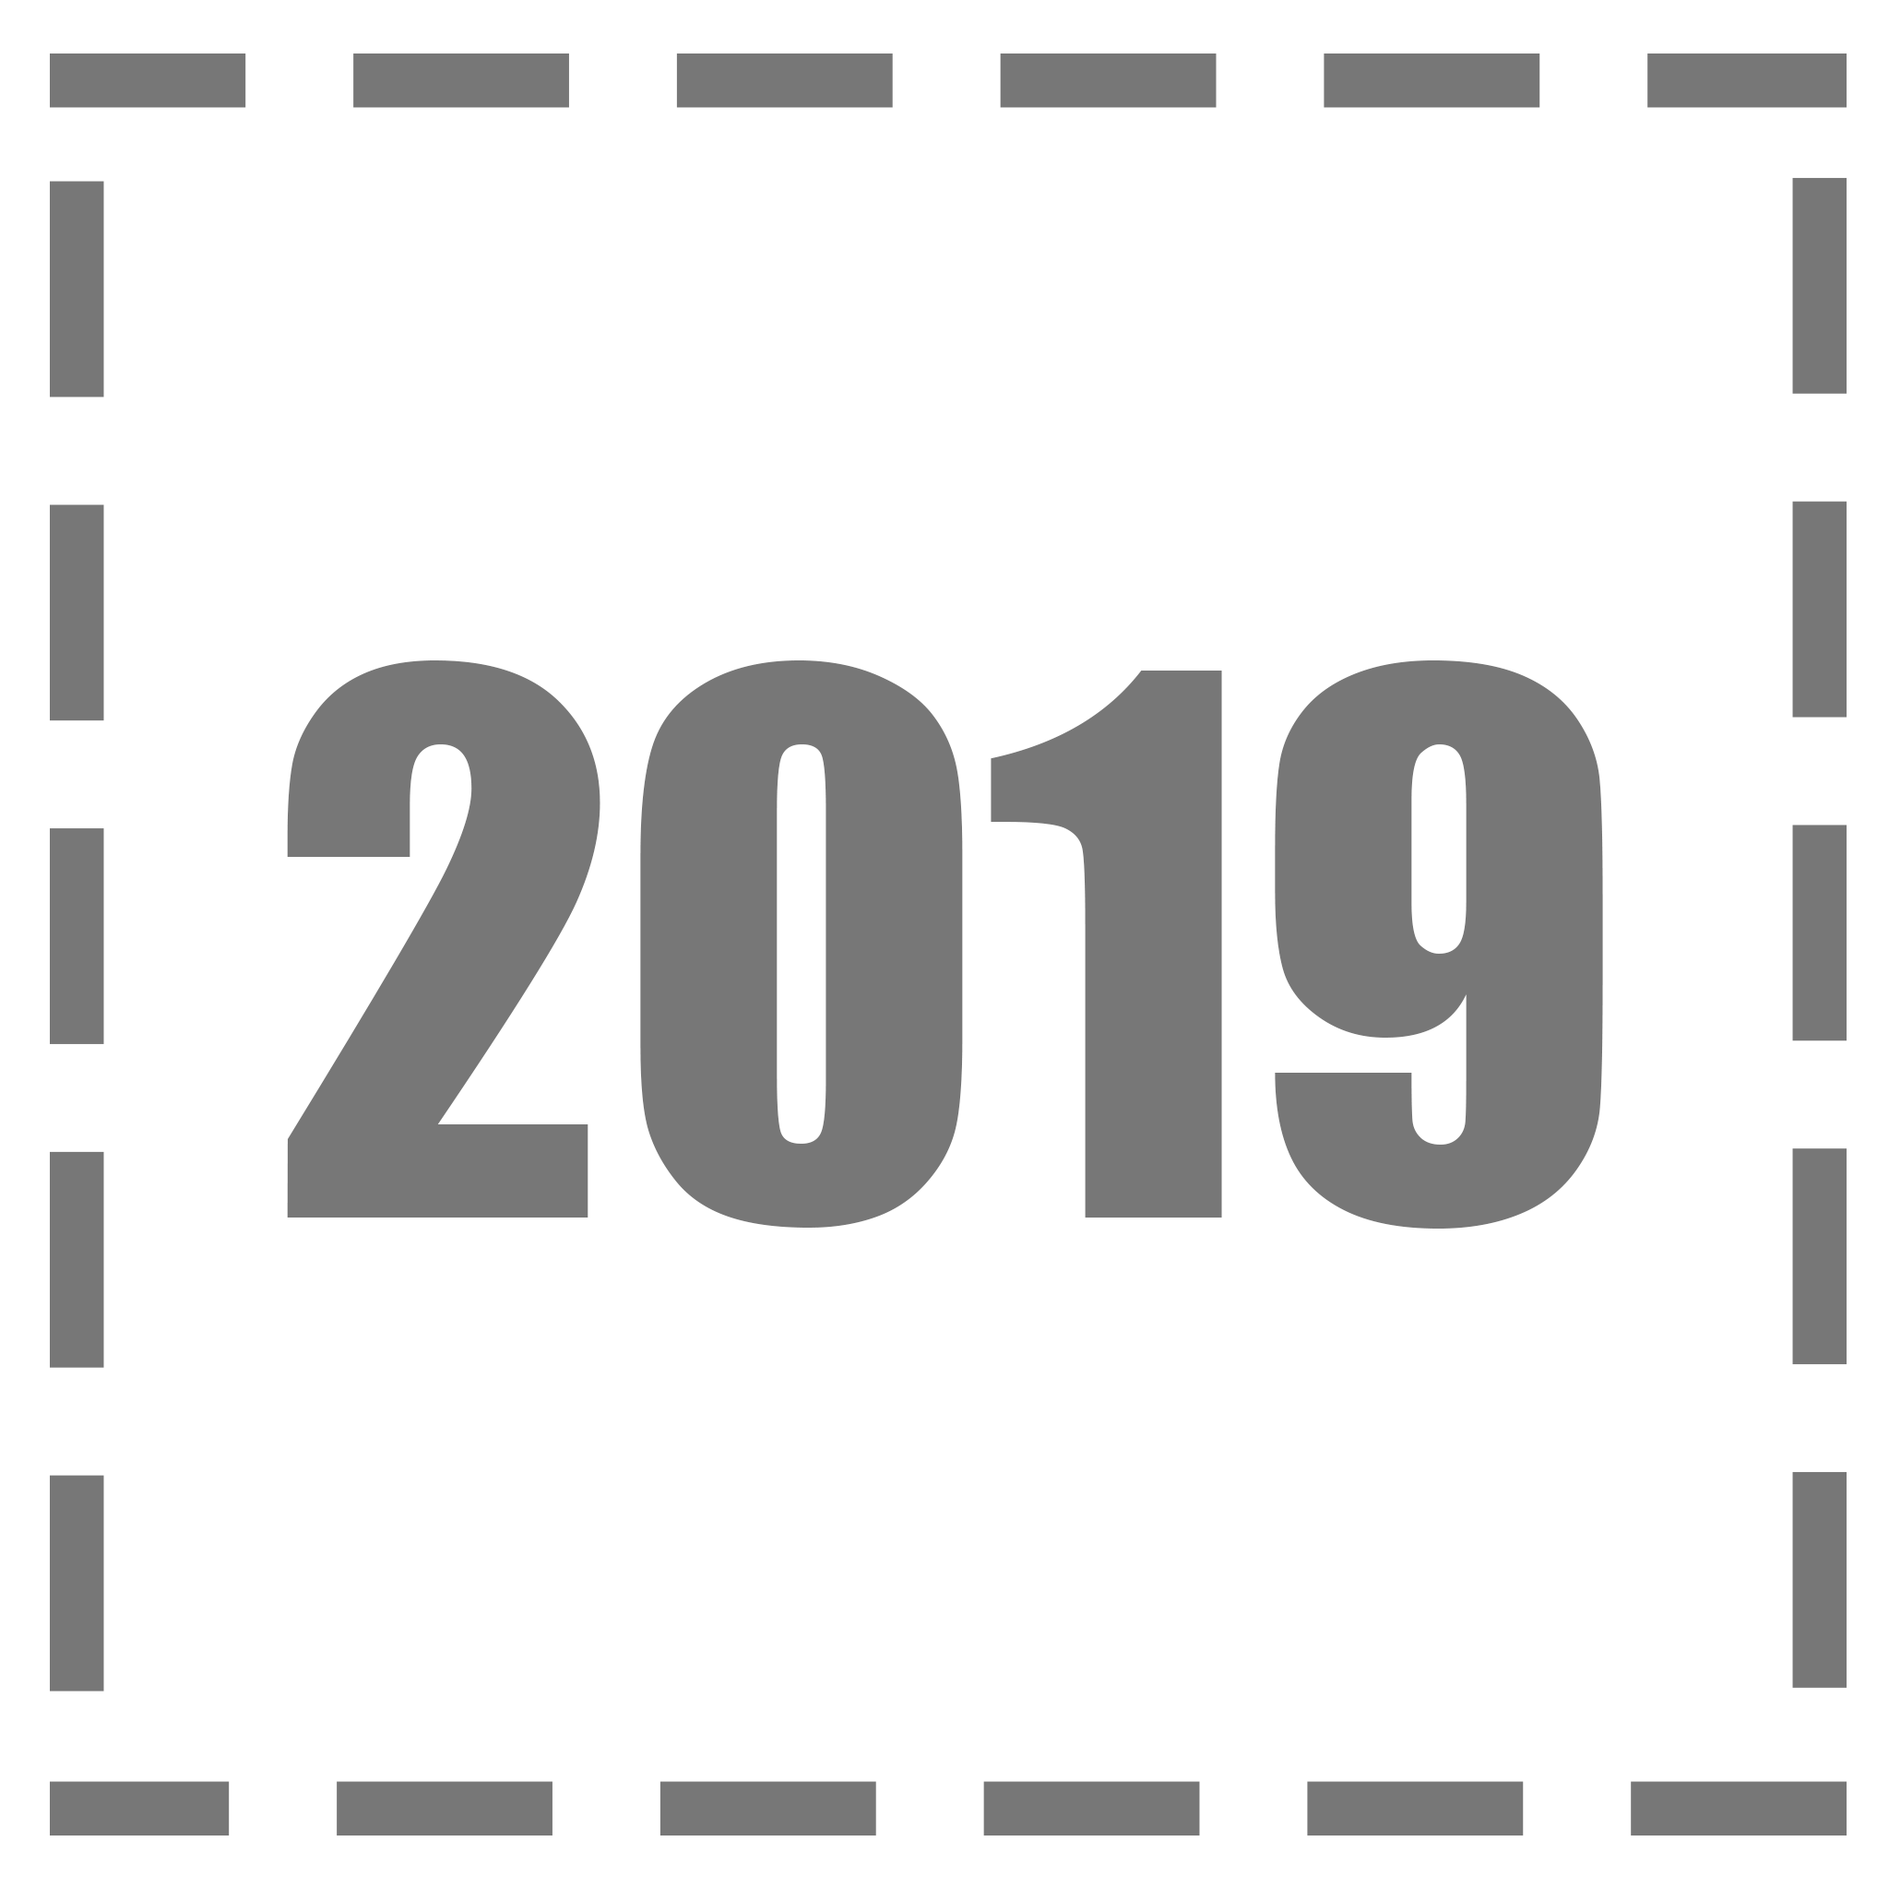
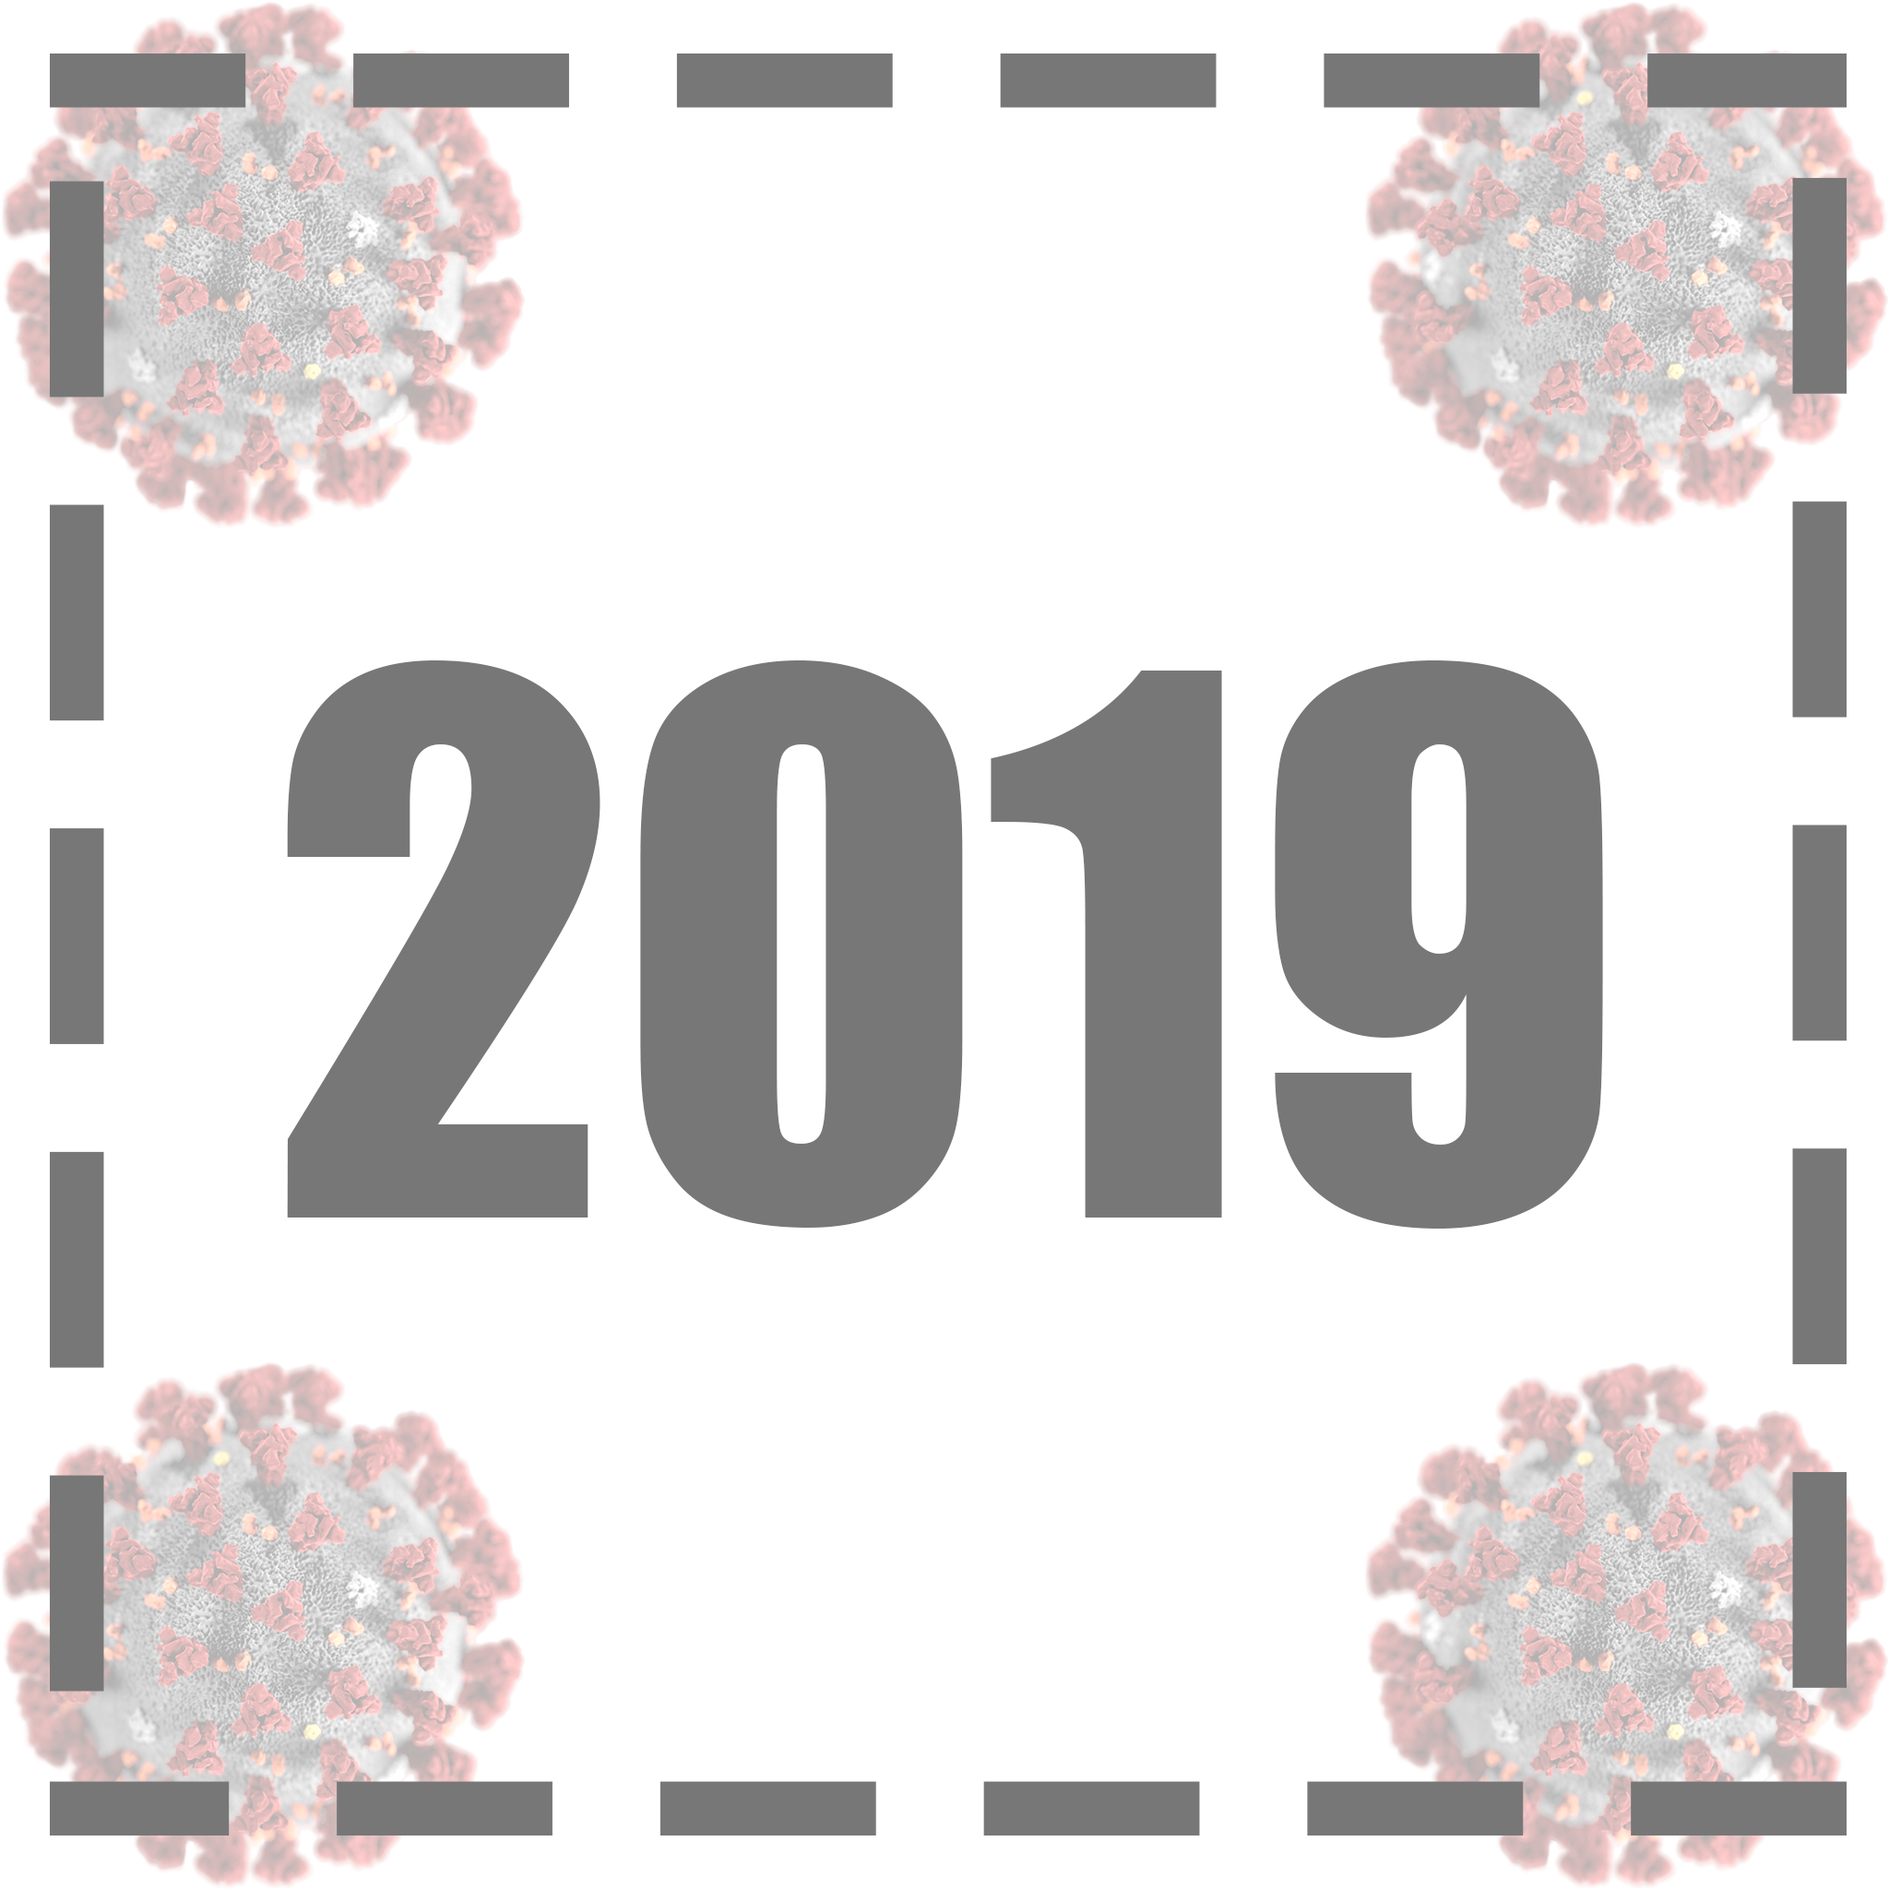
Updated 2021 website to fix Story Progress and to add new website image Updated 2019 and 2020 website images to add coronavirus in them

diff --git a/Years/2021/PT-BR/Index.html b/Years/2021/PT-BR/Index.html
@@ -18,7 +18,7 @@
 <meta name="twitter:website" value="@Stake2__" />
 <meta name="twitter:site" value="@Stake2__" />
 <meta name="twitter:creator" content="@Stake2__" />
-<meta name="revised" content="Stake2's Enterprise TM, 24/10/2021" />
+<meta name="revised" content="Stake2's Enterprise TM, 25/10/2021" />
 <meta name="author" content="Stake2" />
 <meta name="viewport" content="width=device-width, height=device-height, initial-scale=1, user-scalable=yes" />
 <meta charset="UTF-8" />
@@ -206,10 +206,10 @@ Site para mostrar como meu <span class="text_blue" >2021</span> foi, e o que eu 
 <br /><b class="" >-----</b>
 
 <br />
-<br /><b class="" >Coisas Feitas Em 2021: </b>312
+<br /><b class="" >Coisas Feitas Em 2021: </b>331
 
 <br /><b class="" >Coisas Produtivas: </b>
-133
+134
 
 <br /><b class="" >Coisas Assistidas: </b>
 174
@@ -220,7 +220,13 @@ Site para mostrar como meu <span class="text_blue" >2021</span> foi, e o que eu 
 <br />
 <br /><b class="" >Progresso das Histórias: </b>
 
-<br />A Vida de Pequenata: Capítulo: 1, Palavra: 1
+<br />A Vida de Pequenata: Capítulos: 4, Palavras: 9.604
+
+<br />O Segredo dos Cristais: Capítulos: 8, Palavras: 19.319
+
+<br />SpaceLiving: Capítulos: 5, Palavras: 13.535
+
+<br />Ilha Deserta: Capítulos: 2, Palavras: 3.280
 
 <br />
 <br /><b class="" >Python: </b>
@@ -254,10 +260,10 @@ Criada uma versão classe do script de Python Food_Time.py<br />
 <br /><b class="" >-----</b>
 
 <br />
-<br /><b class="" >Coisas Feitas Em 2021: </b>312
+<br /><b class="" >Coisas Feitas Em 2021: </b>331
 
 <br /><b class="" >Coisas Produtivas: </b>
-133
+134
 
 <br /><b class="" >Coisas Assistidas: </b>
 174
@@ -268,7 +274,13 @@ Criada uma versão classe do script de Python Food_Time.py<br />
 <br />
 <br /><b class="" >Progresso das Histórias: </b>
 
-<br />A Vida de Pequenata: Capítulo: 1, Palavra: 1
+<br />A Vida de Pequenata: Capítulos: 4, Palavras: 9.604
+
+<br />O Segredo dos Cristais: Capítulos: 8, Palavras: 19.319
+
+<br />SpaceLiving: Capítulos: 5, Palavras: 13.535
+
+<br />Ilha Deserta: Capítulos: 2, Palavras: 3.280
 
 <br />
 <br /><b class="" >Python: </b>

diff --git a/Years/2021/PT-PT/Index.html b/Years/2021/PT-PT/Index.html
@@ -18,7 +18,7 @@
 <meta name="twitter:website" value="@Stake2__" />
 <meta name="twitter:site" value="@Stake2__" />
 <meta name="twitter:creator" content="@Stake2__" />
-<meta name="revised" content="Stake2's Enterprise TM, 24/10/2021" />
+<meta name="revised" content="Stake2's Enterprise TM, 25/10/2021" />
 <meta name="author" content="Stake2" />
 <meta name="viewport" content="width=device-width, height=device-height, initial-scale=1, user-scalable=yes" />
 <meta charset="UTF-8" />
@@ -206,10 +206,10 @@ Site para mostrar como meu <span class="text_blue" >2021</span> foi, e o que eu 
 <br /><b class="" >-----</b>
 
 <br />
-<br /><b class="" >Coisas Feitas Em 2021: </b>312
+<br /><b class="" >Coisas Feitas Em 2021: </b>331
 
 <br /><b class="" >Coisas Produtivas: </b>
-133
+134
 
 <br /><b class="" >Coisas Assistidas: </b>
 174
@@ -220,7 +220,13 @@ Site para mostrar como meu <span class="text_blue" >2021</span> foi, e o que eu 
 <br />
 <br /><b class="" >Progresso das Histórias: </b>
 
-<br />A Vida de Pequenata: Capítulo: 1, Palavra: 1
+<br />A Vida de Pequenata: Capítulos: 4, Palavras: 9.604
+
+<br />O Segredo dos Cristais: Capítulos: 8, Palavras: 19.319
+
+<br />SpaceLiving: Capítulos: 5, Palavras: 13.535
+
+<br />Ilha Deserta: Capítulos: 2, Palavras: 3.280
 
 <br />
 <br /><b class="" >Python: </b>
@@ -254,10 +260,10 @@ Criada uma versão classe do script de Python Food_Time.py<br />
 <br /><b class="" >-----</b>
 
 <br />
-<br /><b class="" >Coisas Feitas Em 2021: </b>312
+<br /><b class="" >Coisas Feitas Em 2021: </b>331
 
 <br /><b class="" >Coisas Produtivas: </b>
-133
+134
 
 <br /><b class="" >Coisas Assistidas: </b>
 174
@@ -268,7 +274,13 @@ Criada uma versão classe do script de Python Food_Time.py<br />
 <br />
 <br /><b class="" >Progresso das Histórias: </b>
 
-<br />A Vida de Pequenata: Capítulo: 1, Palavra: 1
+<br />A Vida de Pequenata: Capítulos: 4, Palavras: 9.604
+
+<br />O Segredo dos Cristais: Capítulos: 8, Palavras: 19.319
+
+<br />SpaceLiving: Capítulos: 5, Palavras: 13.535
+
+<br />Ilha Deserta: Capítulos: 2, Palavras: 3.280
 
 <br />
 <br /><b class="" >Python: </b>

diff --git a/Years/2021/EN-US/Index.html b/Years/2021/EN-US/Index.html
@@ -18,7 +18,7 @@
 <meta name="twitter:website" value="@Stake2__" />
 <meta name="twitter:site" value="@Stake2__" />
 <meta name="twitter:creator" content="@Stake2__" />
-<meta name="revised" content="Stake2's Enterprise TM, 24/10/2021" />
+<meta name="revised" content="Stake2's Enterprise TM, 25/10/2021" />
 <meta name="author" content="Stake2" />
 <meta name="viewport" content="width=device-width, height=device-height, initial-scale=1, user-scalable=yes" />
 <meta charset="UTF-8" />
@@ -206,10 +206,10 @@ Website to show how my <span class="text_blue" >2021</span> was, and what I did 
 <br /><b class="" >-----</b>
 
 <br />
-<br /><b class="" >Things Done In 2021: </b>359
+<br /><b class="" >Things Done In 2021: </b>331
 
 <br /><b class="" >Productive Things: </b>
-133
+134
 
 <br /><b class="" >Watched Things: </b>
 174
@@ -220,7 +220,13 @@ Website to show how my <span class="text_blue" >2021</span> was, and what I did 
 <br />
 <br /><b class="" >Story Progress: </b>
 
-<br />The Life of Littletato: Chapter: 1, Word: 1
+<br />The Life of Littletato: Chapters: 4, Words: 9.604
+
+<br />The Secret of the Crystals: Chapters: 8, Words: 19.319
+
+<br />SpaceLiving: Chapters: 5, Words: 13.535
+
+<br />Desert Island: Chapters: 2, Words: 3.280
 
 <br />
 <br /><b class="" >Python: </b>
@@ -254,10 +260,10 @@ Created a class version of Food_Time.py Python script<br />
 <br /><b class="" >-----</b>
 
 <br />
-<br /><b class="" >Things Done In 2021: </b>359
+<br /><b class="" >Things Done In 2021: </b>331
 
 <br /><b class="" >Productive Things: </b>
-133
+134
 
 <br /><b class="" >Watched Things: </b>
 174
@@ -268,7 +274,13 @@ Created a class version of Food_Time.py Python script<br />
 <br />
 <br /><b class="" >Story Progress: </b>
 
-<br />The Life of Littletato: Chapter: 1, Word: 1
+<br />The Life of Littletato: Chapters: 4, Words: 9.604
+
+<br />The Secret of the Crystals: Chapters: 8, Words: 19.319
+
+<br />SpaceLiving: Chapters: 5, Words: 13.535
+
+<br />Desert Island: Chapters: 2, Words: 3.280
 
 <br />
 <br /><b class="" >Python: </b>

diff --git a/Years/2021/Index.html b/Years/2021/Index.html
@@ -18,7 +18,7 @@
 <meta name="twitter:website" value="@Stake2__" />
 <meta name="twitter:site" value="@Stake2__" />
 <meta name="twitter:creator" content="@Stake2__" />
-<meta name="revised" content="Stake2's Enterprise TM, 24/10/2021" />
+<meta name="revised" content="Stake2's Enterprise TM, 25/10/2021" />
 <meta name="author" content="Stake2" />
 <meta name="viewport" content="width=device-width, height=device-height, initial-scale=1, user-scalable=yes" />
 <meta charset="UTF-8" />
@@ -206,10 +206,10 @@ Website to show how my <span class="text_blue" >2021</span> was, and what I did 
 <br /><b class="" >-----</b>
 
 <br />
-<br /><b class="" >Things Done In 2021: </b>359
+<br /><b class="" >Things Done In 2021: </b>331
 
 <br /><b class="" >Productive Things: </b>
-133
+134
 
 <br /><b class="" >Watched Things: </b>
 174
@@ -220,7 +220,13 @@ Website to show how my <span class="text_blue" >2021</span> was, and what I did 
 <br />
 <br /><b class="" >Story Progress: </b>
 
-<br />The Life of Littletato: Chapter: 1, Word: 1
+<br />The Life of Littletato: Chapters: 4, Words: 9.604
+
+<br />The Secret of the Crystals: Chapters: 8, Words: 19.319
+
+<br />SpaceLiving: Chapters: 5, Words: 13.535
+
+<br />Desert Island: Chapters: 2, Words: 3.280
 
 <br />
 <br /><b class="" >Python: </b>
@@ -254,10 +260,10 @@ Created a class version of Food_Time.py Python script<br />
 <br /><b class="" >-----</b>
 
 <br />
-<br /><b class="" >Things Done In 2021: </b>359
+<br /><b class="" >Things Done In 2021: </b>331
 
 <br /><b class="" >Productive Things: </b>
-133
+134
 
 <br /><b class="" >Watched Things: </b>
 174
@@ -268,7 +274,13 @@ Created a class version of Food_Time.py Python script<br />
 <br />
 <br /><b class="" >Story Progress: </b>
 
-<br />The Life of Littletato: Chapter: 1, Word: 1
+<br />The Life of Littletato: Chapters: 4, Words: 9.604
+
+<br />The Secret of the Crystals: Chapters: 8, Words: 19.319
+
+<br />SpaceLiving: Chapters: 5, Words: 13.535
+
+<br />Desert Island: Chapters: 2, Words: 3.280
 
 <br />
 <br /><b class="" >Python: </b>

diff --git a/Years/2019/Index.html b/Years/2019/Index.html
@@ -18,7 +18,7 @@
 <meta name="twitter:website" value="@Stake2__" />
 <meta name="twitter:site" value="@Stake2__" />
 <meta name="twitter:creator" content="@Stake2__" />
-<meta name="revised" content="Stake2's Enterprise TM, 24/10/2021" />
+<meta name="revised" content="Stake2's Enterprise TM, 25/10/2021" />
 <meta name="author" content="Stake2" />
 <meta name="viewport" content="width=device-width, height=device-height, initial-scale=1, user-scalable=yes" />
 <meta charset="UTF-8" />

diff --git a/Years/2019/PT-PT/Index.html b/Years/2019/PT-PT/Index.html
@@ -18,7 +18,7 @@
 <meta name="twitter:website" value="@Stake2__" />
 <meta name="twitter:site" value="@Stake2__" />
 <meta name="twitter:creator" content="@Stake2__" />
-<meta name="revised" content="Stake2's Enterprise TM, 24/10/2021" />
+<meta name="revised" content="Stake2's Enterprise TM, 25/10/2021" />
 <meta name="author" content="Stake2" />
 <meta name="viewport" content="width=device-width, height=device-height, initial-scale=1, user-scalable=yes" />
 <meta charset="UTF-8" />

diff --git a/Years/2019/en-us/Index.html b/Years/2019/en-us/Index.html
@@ -18,7 +18,7 @@
 <meta name="twitter:website" value="@Stake2__" />
 <meta name="twitter:site" value="@Stake2__" />
 <meta name="twitter:creator" content="@Stake2__" />
-<meta name="revised" content="Stake2's Enterprise TM, 24/10/2021" />
+<meta name="revised" content="Stake2's Enterprise TM, 25/10/2021" />
 <meta name="author" content="Stake2" />
 <meta name="viewport" content="width=device-width, height=device-height, initial-scale=1, user-scalable=yes" />
 <meta charset="UTF-8" />

diff --git a/Years/2019/pt-br/Index.html b/Years/2019/pt-br/Index.html
@@ -18,7 +18,7 @@
 <meta name="twitter:website" value="@Stake2__" />
 <meta name="twitter:site" value="@Stake2__" />
 <meta name="twitter:creator" content="@Stake2__" />
-<meta name="revised" content="Stake2's Enterprise TM, 24/10/2021" />
+<meta name="revised" content="Stake2's Enterprise TM, 25/10/2021" />
 <meta name="author" content="Stake2" />
 <meta name="viewport" content="width=device-width, height=device-height, initial-scale=1, user-scalable=yes" />
 <meta charset="UTF-8" />

diff --git a/Years/2020/EN-US/Index.html b/Years/2020/EN-US/Index.html
@@ -18,7 +18,7 @@
 <meta name="twitter:website" value="@Stake2__" />
 <meta name="twitter:site" value="@Stake2__" />
 <meta name="twitter:creator" content="@Stake2__" />
-<meta name="revised" content="Stake2's Enterprise TM, 24/10/2021" />
+<meta name="revised" content="Stake2's Enterprise TM, 25/10/2021" />
 <meta name="author" content="Stake2" />
 <meta name="viewport" content="width=device-width, height=device-height, initial-scale=1, user-scalable=yes" />
 <meta charset="UTF-8" />

diff --git a/Years/2020/Index.html b/Years/2020/Index.html
@@ -18,7 +18,7 @@
 <meta name="twitter:website" value="@Stake2__" />
 <meta name="twitter:site" value="@Stake2__" />
 <meta name="twitter:creator" content="@Stake2__" />
-<meta name="revised" content="Stake2's Enterprise TM, 24/10/2021" />
+<meta name="revised" content="Stake2's Enterprise TM, 25/10/2021" />
 <meta name="author" content="Stake2" />
 <meta name="viewport" content="width=device-width, height=device-height, initial-scale=1, user-scalable=yes" />
 <meta charset="UTF-8" />

diff --git a/Years/2020/PT-BR/Index.html b/Years/2020/PT-BR/Index.html
@@ -18,7 +18,7 @@
 <meta name="twitter:website" value="@Stake2__" />
 <meta name="twitter:site" value="@Stake2__" />
 <meta name="twitter:creator" content="@Stake2__" />
-<meta name="revised" content="Stake2's Enterprise TM, 24/10/2021" />
+<meta name="revised" content="Stake2's Enterprise TM, 25/10/2021" />
 <meta name="author" content="Stake2" />
 <meta name="viewport" content="width=device-width, height=device-height, initial-scale=1, user-scalable=yes" />
 <meta charset="UTF-8" />

diff --git a/Years/2020/PT-PT/Index.html b/Years/2020/PT-PT/Index.html
@@ -18,7 +18,7 @@
 <meta name="twitter:website" value="@Stake2__" />
 <meta name="twitter:site" value="@Stake2__" />
 <meta name="twitter:creator" content="@Stake2__" />
-<meta name="revised" content="Stake2's Enterprise TM, 24/10/2021" />
+<meta name="revised" content="Stake2's Enterprise TM, 25/10/2021" />
 <meta name="author" content="Stake2" />
 <meta name="viewport" content="width=device-width, height=device-height, initial-scale=1, user-scalable=yes" />
 <meta charset="UTF-8" />
